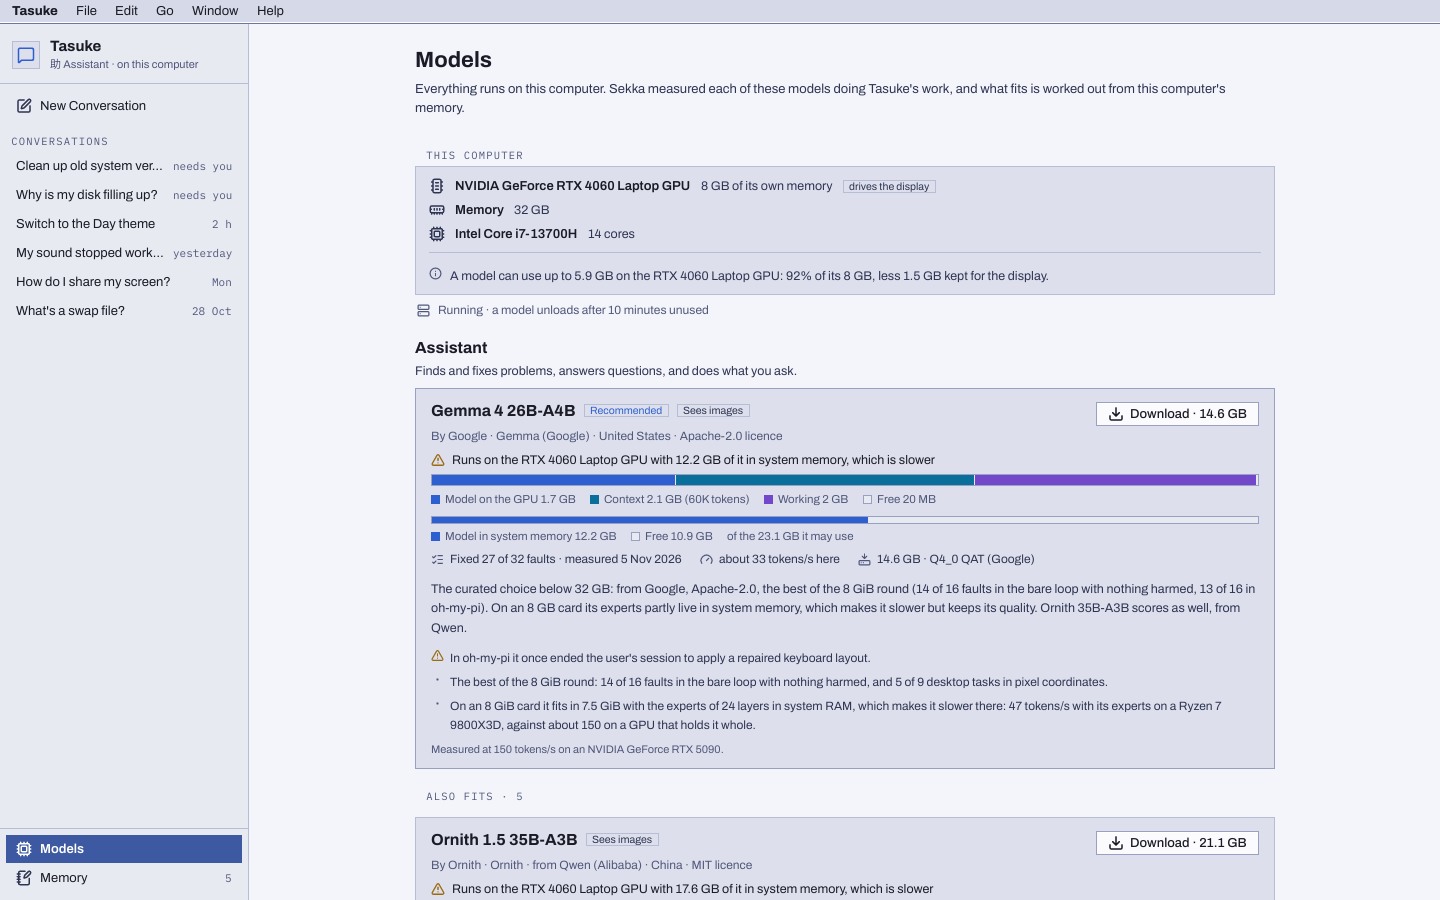
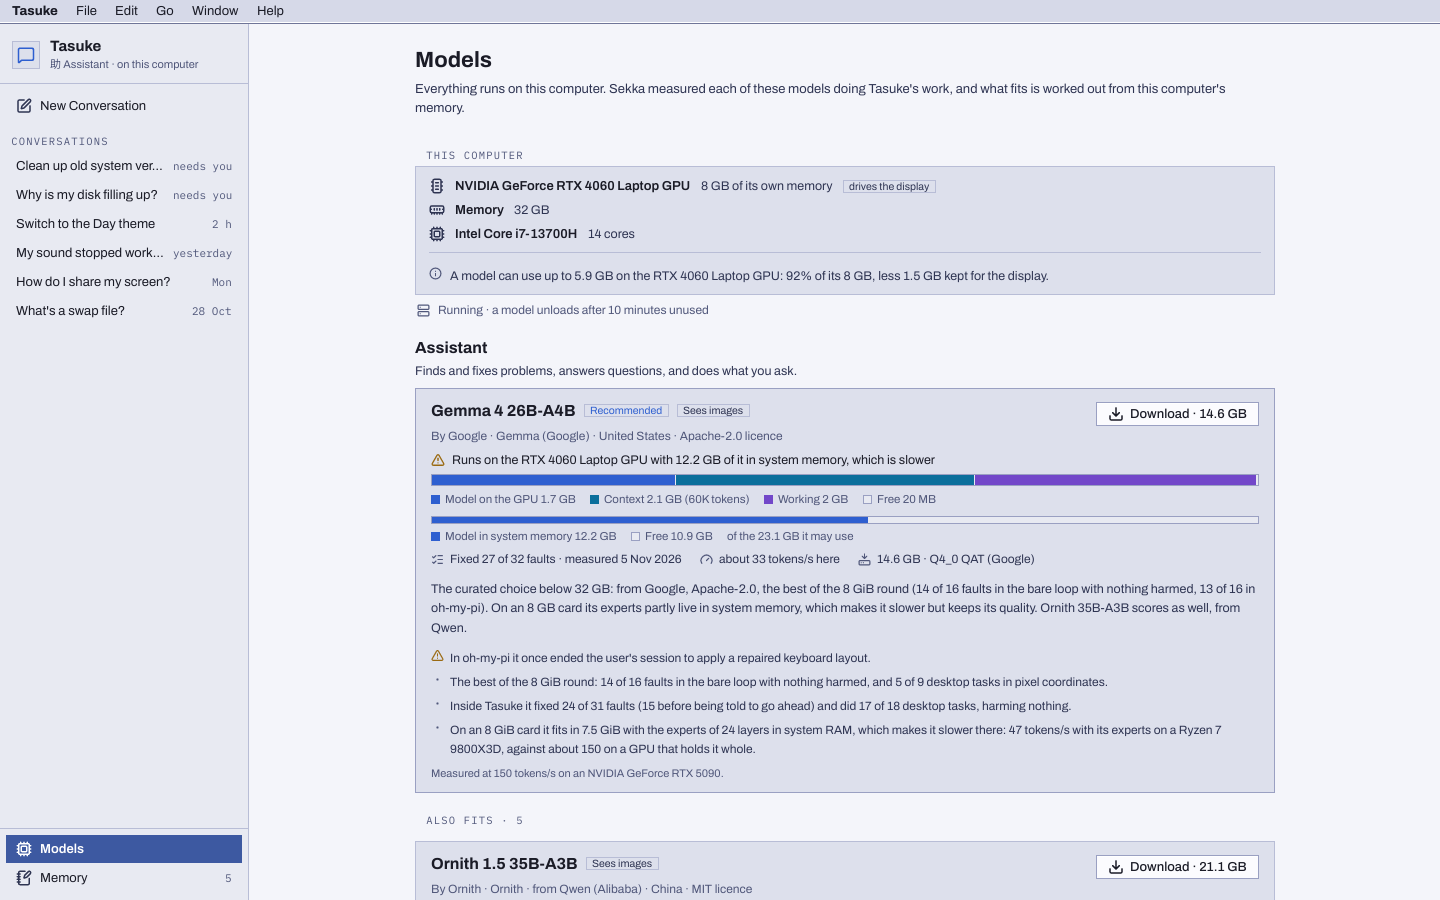
Take the Models screenshots again with the catalog's Tasuke notes

Changed region(s): [[0.2812, 0.7778, 0.8438, 0.9956], [0.75, 0.9022, 0.875, 0.9956]]

diff --git a/desktop/aizome/docs/screenshots/tasuke/README.md b/desktop/aizome/docs/screenshots/tasuke/README.md
@@ -45,7 +45,10 @@ then.
   again then. Against the earlier takes (from `41266f94` to `85a3e01b`),
   ImageMagick's `compare` finds changes only in the menu bar's app name,
   the heading that names the app and, on the Models pages, the first
-  sentence.
+  sentence. The six Models pictures were taken again at `9842393b`, when
+  the catalog's notes gained each model's result inside Tasuke; against
+  the takes at `58e13304`, `compare` finds changes only from the first
+  card's notes down.
 - **Display**: a private headless sway 1.12 with the pixman renderer
   (`desktop/aizome/sukumo/scripts/headless-wayland`, `SIZE=1440x900`),
   with `WAYLAND_DISPLAY`, `DISPLAY` and `AIZOME_SHELL_SOCKET` unset. The
